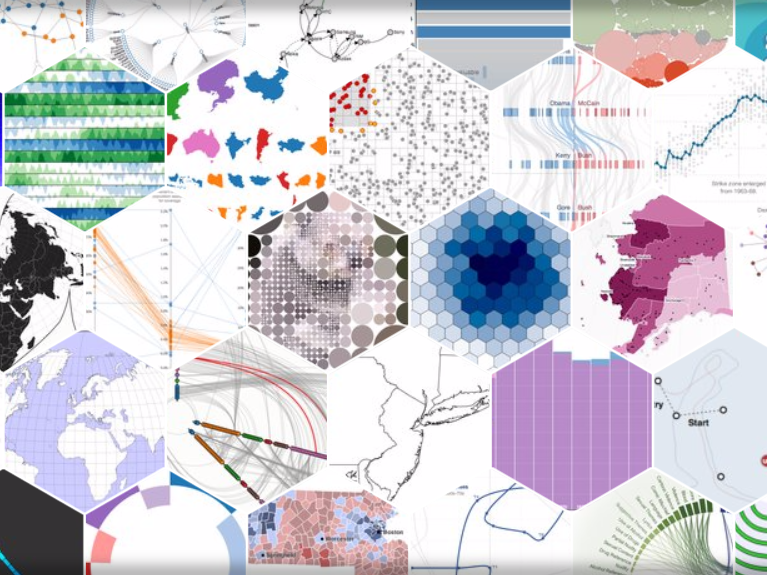
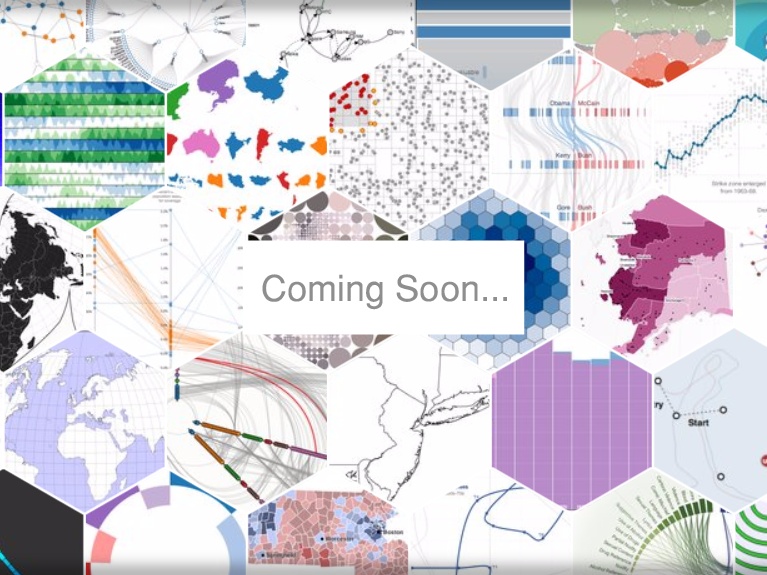
18summer content update; missing images and links

Changed region(s): [[0.2999, 0.4139, 0.6897, 0.5913]]

diff --git a/index.html b/index.html
@@ -209,7 +209,7 @@
         	<img id="chu-logo" src="imgs/icons/chu-logo.png" alt="Loading Logo...">
             <div id="hand"><img src="imgs/icons/hand.png" alt="Loading hand..."></div>
             <img id="smile3" src="imgs/icons/smile.png" alt="Loading smile...">
-            <p id="sec1-p">I'M A <span class="sec1-p-span" id="coe" data-toggle="tooltip" data-placement="bottom" title="Now seeking 2018 summer intern.">Front End Engineer&nbsp;</span>FROM<span class="sec1-p-span" id="uiux" data-toggle="tooltip" data-placement="bottom" title="@ Mountain View, CA">&nbsp;CMU</span></p>
+            <p id="sec1-p">I'M A <span class="sec1-p-span" id="coe" data-toggle="tooltip" data-placement="bottom" title="Now seeking 2019 full time opportunity.">Front End Engineer&nbsp;</span>FROM<span class="sec1-p-span" id="uiux" data-toggle="tooltip" data-placement="bottom" title="@ Mountain View, CA">&nbsp;CMU</span></p>
         </div>
         <div class="arrow_box"></div>
     </section>
@@ -231,7 +231,7 @@
             <div class="sec2mask original-mask"></div>
             <div class="row">
               <div class="leftimg">
-              	<img src="imgs/portrait3.png" alt="Loading Portrait...">
+              	<img src="imgs/portrait3.jpg" alt="Loading Portrait...">
               </div>
               <div class="aboutright">
               	<h1 class="wow fadeInDown">Who am I?</h1>
@@ -258,47 +258,47 @@
 						<div class="sec-title text-center">
 							<h2 class="wow fadeInDown">My Skills</h2>
                             <hr>
-							<p class="wow animated fadeInUp-light">Tools I have been using to code</p>
+							<p class="wow animated fadeInUp-light">Web technologies I have hands-on experience</p>
 						</div>
 						
 						<div class="col-md-3 col-sm-6 col-xs-12 text-center wow zoomIn">
 							<div class="service-item">
 								<div class="service-icon service-icon1">
-									<i class="fa"><img src="imgs/icons/web.png" class="skillimg" alt=""></i>
+									<i class="fa"><img src="imgs/icons/lang.png" class="skillimg" alt=""></i>
 								</div>
-								<h3>Web/Database</h3>
-								<p>jQuery, Node, MongoDB, SQL</p>
+								<h3>Languages</h3>
+								<p>HTML, CSS, JavaScript, Python, PHP</p>
 							</div>
 						</div>
 					
 						<div class="col-md-3 col-sm-6 col-xs-12 text-center wow zoomIn" data-wow-delay="0.3s">
 							<div class="service-item">
 								<div class="service-icon service-icon2">
-									<i class="fa"><img src="imgs/icons/mobile.png" class="skillimg" alt=""></i>
+									<i class="fa"><img src="imgs/icons/frame.png" class="skillimg" alt=""></i>
 								</div>
-								<h3>Mobile API</h3>
-								<p>Android / iOS</p>
+								<h3>Frameworks</h3>
+								<p>Polymer, Vue, React, Backbone, Angular, Node</p>
 							</div>
 						</div>
 					
 						<div class="col-md-3 col-sm-6 col-xs-12 text-center wow zoomIn" data-wow-delay="0.6s">
 							<div class="service-item">
 								<div class="service-icon service-icon3">
-									<i class="fa"><img src="imgs/icons/software.png" class="skillimg" alt=""></i>
+									<i class="fa"><img src="imgs/icons/db.png" class="skillimg" alt=""></i>
 								</div>
-								<h3>General Purpose</h3>
-								<p>Python, Java, C/C#</p>
+								<h3>Databases</h3>
+								<p>MongoDB, MySQL, PostgreSQL</p>
 							</div>
 						</div>
 					
 						<div class="col-md-3 col-sm-6 col-xs-12 text-center wow zoomIn" data-wow-delay="0.9s">
 							<div class="service-item">
 								<div class="service-icon service-icon4">
-									<i class="fa"><img src="imgs/icons/embedded.png" class="skillimg" alt=""></i>
+									<i class="fa"><img src="imgs/icons/cloud.png" class="skillimg" alt=""></i>
 								</div>
 								
-								<h3>Embedded</h3>
-								<p>MIPS, x86, VHDL</p>							
+								<h3>Cloud</h3>
+								<p>AWS, MS Azure, Heroku</p>							
 							</div>
 						</div>
 						
@@ -319,6 +319,28 @@
               <p class="wow animated fadeInUp-light">Code & Outcome Snaps</p>
               <div class="row text-center" id="portfolio1">
                 <div class="col-sm-3 pp-wrapper wow fadeInDown col-sm-offset-1">
+                	<h3><strong>Chrome Extension, Solidity</strong></h3>
+                    <p>Ethereum Wallet - A Chrome Extension which enables Ethereum trade. Implementation and security analysis are two focuses for this project.</p>
+                    <button class="btn btn1 btn2" href="" disabled>Coming Soon...</button>
+                </div>
+                <div class="col-sm-6 pimg-wrapper wow fadeInUp col-sm-offset-1">
+                	<img class="pimg-code" src="imgs/portfolio/crypto-code.png" alt="Loading Moviemotion...">
+                    <img class="pimg" src="imgs/portfolio/moviemotion0.png" alt="Loading Moviemotion...">
+                </div>
+              </div>
+              <div class="row text-center" id="portfolio2">
+                <div class="col-sm-6 pimg-wrapper wow fadeInUp col-sm-offset-1">
+                	<img class="pimg-code" src="imgs/portfolio/cmuwf-code.png" alt="Loading Casey...">
+                	<img class="pimg" src="imgs/portfolio/cmuwf.png" alt="Loading Casey...">
+                </div>
+                <div class="col-sm-3 pp-wrapper wow fadeInDown col-sm-offset-1">
+                	<h3><strong>JavaScript, Python</strong></h3>
+                    <p>Collaborative Workflow Workbench - A NASA research project which seeks web-based solution with enhanced UX and optimized performation for web service co-editing, scheduling and execution.</p>
+                    <a class="btn btn1 btn2" href="https://drive.google.com/open?id=1XJakrogt7EhitgJYefcgqgv5E9gfmb4tE2cPHujjp1Q" target="_blank">Research Paper*</a>
+                </div>
+              </div>
+              <div class="row text-center" id="portfolio3">
+                <div class="col-sm-3 pp-wrapper wow fadeInDown col-sm-offset-1">
                 	<h3><strong>JavaScript, Python, R, PyTorch</strong></h3>
                     <p>Movie.Emodex - A research project where we explore new application in movie sentiment analysis with the help of deep learning and data visualization methods through web interface.</p>
                     <button class="btn btn1 btn2" href="" disabled>Coming Soon...</button>
@@ -328,7 +350,7 @@
                     <img class="pimg" src="imgs/portfolio/moviemotion0.png" alt="Loading Moviemotion...">
                 </div>
               </div>
-              <div class="row text-center" id="portfolio2">
+              <div class="row text-center" id="portfolio4">
                 <div class="col-sm-6 pimg-wrapper wow fadeInUp col-sm-offset-1">
                 	<img class="pimg-code" src="imgs/portfolio/casey-code.png" alt="Loading Casey...">
                 	<img class="pimg" src="imgs/portfolio/casey0.png" alt="Loading Casey...">
@@ -339,7 +361,7 @@
                     <a class="btn btn1 btn2" href="https://www.xinbeihu.com/jet-hackathon" target="_blank">Research & Design</a>
                 </div>
               </div>
-              <div class="row text-center" id="portfolio3">
+              <div class="row text-center" id="portfolio5">
                 <div class="col-sm-3 pp-wrapper wow fadeInDown col-sm-offset-1">
                 	<h3><strong>Microsoft HoloLens, Unity, C#, JavaScript</strong></h3>
                     <p>Dashboard - A research project aiming to build an educational app on HoloLens that enhances in-class communication to help instructors conduct efficient teaching.</p>
@@ -350,7 +372,7 @@
                     <img class="pimg" src="imgs/portfolio/hololens1.gif" alt="Loading HoloLens...">
                 </div>
               </div>
-              <div class="row text-center" id="portfolio4">
+              <div class="row text-center" id="portfolio6">
                 <div class="col-sm-6 pimg-wrapper wow fadeInUp col-sm-offset-1">
                 	<img class="pimg-code" src="imgs/portfolio/airome-code.png" alt="Loading Airome...">
                 	<img class="pimg" src="imgs/portfolio/airome0.png" alt="Loading Airome...">
@@ -361,7 +383,7 @@
                     <a class="btn btn1 btn2" href="Airome" target="_blank">Design Presentation</a>
                 </div>
               </div>
-              <div class="row text-center" id="portfolio5">
+              <!-- <div class="row text-center" id="portfolio5">
                 <div class="col-sm-3 pp-wrapper wow fadeInDown col-sm-offset-1">
                 	<h3><strong>Java, PHP, SQL, Android API</strong></h3>
                     <p>Panther Read - a mobile learning app being built to enter the XPrice competition to improve adult literacy. Our group of software engineers are working closely with psychologists and linguists at PITT to create an efficient and incentivized learning process.</p>
@@ -382,21 +404,16 @@
                     <p>The CTC Railway control system - a combination of embedded system and supporting software programming task. The final prototype was designed and built stricktly according to documents provided by the Pittsburgh Port Authority (PAAC).</p>
                     <a class="btn btn1 btn2" href="https://github.com/tic30/CTC-Railway-System-By-RedPanda-Coding/tree/master/src/cn/ctc" target="_blank">See Code in GitHub</a>
                 </div>
-              </div>
+              </div> -->
               <div class="row text-center" id="portfolio7">
-                <div class="col-sm-3 col-md-3 pp-wrapper wow fadeInDown col-sm-offset-1">
-                    <h3><strong>HTML, PHP, MySQL, JDBC</strong></h3>
-                    <p>FaceSpace - the smiling social network. It features emotion sharing and media streaming. This project is built based on MySQL database with dedicated SQL and Java programming. We use PHP to generate the front end website and mobile applications.</p>
-                    <a class="btn btn1 btn2" href="https://github.com/tic30/FaceSpace" target="_blank">See Code in GitHub</a>
-                	<!--<h3><strong>Java, Android API, Adobe Design Tools</strong></h3>
-                    <p>CrossUniv Bus tracking app. It features bus trip planning with feeds from PITT/CMU school bus systems and the Pittsburgh city bus system, all in one app. This app is designed for local students to enjoy free bus rides with the highest possible time efficiency.</p>
-                    <a class="btn btn1 btn2" href="https://www.behance.net/gallery/38281809/CrossUniv-Bus" target="_blank">Go to my Bēhance</a>-->
+                <div class="col-sm-3 pp-wrapper wow fadeInDown col-sm-offset-1">
+                	<h3><strong>Java, PHP, SQL, Android API</strong></h3>
+                    <p>Panther Read - a mobile learning app being built to enter the XPrice competition to improve adult literacy. Our group of software engineers are working closely with psychologists and linguists at PITT to create an efficient and incentivized learning process.</p>
+                    <a class="btn btn1 btn2" href="https://drive.google.com/open?id=0B1dSWHM51dn-T2k0MmxOQ2FJeEE" target="_blank">Research & Design</a>
                 </div>
                 <div class="col-sm-6 pimg-wrapper wow fadeInUp col-sm-offset-1">
-                    <img class="pimg-code" src="imgs/portfolio/face-code.png" alt="Loading FaceSpace...">
-                    <img class="pimg" src="imgs/portfolio/face0.png" alt="Loading FaceSpace...">
-                	<!--<img class="pimg-code" src="imgs/portfolio/cross1.gif" alt="Loading CrossUniv...">
-                    <img class="pimg" src="imgs/portfolio/cross0.gif" alt="Loading CrossUniv...">-->
+                	<img class="pimg-code" src="imgs/portfolio/xprice-code.png" alt="Loading Panther Read...">
+                    <img class="pimg" src="imgs/portfolio/xprice1.png" alt="Loading Panther Read...">
                 </div>
               </div>
               <div class="row text-center" id="portfolio8">
@@ -474,7 +491,7 @@
             <div class="row bottomRow">                
                 <div class="self-intro col-md-8 wow fadeInLeft-light" data-wow-delay="0.3s">
                     <p><span>I</span> am pursuing a career within the scope of full stack web programming and interactive computing/UX research. My strength is front end development and prototyping. Meanwhile I am always learning and would love to explore new technology fields.</p>
-                    <p><span>A</span>t the moment, I am pursuing a master's degree at CMU Silicon Valley campus, majoring in Software Engineering. Thus I am open to <i class="location-highlight">2018 summer internship</i> positions and <i class="location-highlight">full time positions starting 2019</i>. In either case, if you are a recruiter, I would love to talk to you more about the opportunity. Contact me with any approach listed here if you wish to chat.</p>
+                    <p><span>A</span>t the moment, I am pursuing a master's degree at CMU Silicon Valley campus, majoring in Software Engineering. Thus I am open to <i class="location-highlight">full time positions starting January 2019</i>. If you are a recruiter, I would love to talk to you more about the opportunity. Contact me with any approach listed here if you wish to chat.</p>
                 </div>
                 <div class="contact-details-wrapper col-md-4 wow fadeInRight-light" data-wow-delay="0.3s">
 					<address class="contact-details">			
@@ -514,7 +531,7 @@
     -->
     
     <footer>
-    	<div>v1.93.17 &nbsp;© Copyright 2016 - 2018 &nbsp;Chu, Tianxin</div>
+    	<div>For * links, contact me for permission.&nbsp;&nbsp;&nbsp;v1.93.17 &nbsp;© Copyright 2016 - 2018 &nbsp;Chu, Tianxin</div>
     </footer>
     <script src="js/jquery.js"></script>
     <script src="js/bootstrap.min.js"></script>

diff --git a/css/chu-custom.css b/css/chu-custom.css
@@ -94,7 +94,8 @@ hr{
 	border-radius:2px;
     background-color: #f5f5f5;
 	width:300px;
-	height:50px
+	height:50px;
+	max-width: 100%;
 }
 
 .btn1.focus,
@@ -811,27 +812,22 @@ footer{
 	}
 }
 .preloader-button-wrapper{
-	position:relative;
+	position:fixed;
 	width:100%;
-	top:53%;
-	left: 50%;
-    -webkit-transform: translate(-50%,0);
-    transform: translate(-50%,0);
-	height:50px;
+	bottom:20px;
+	right:20px;
+	text-align: right;
+	height: 50px;
     color: #1a1a1a;
 }
 .preloader-button{
-    position: absolute;
-	border:solid 1px #666;
+	border:solid 1px #1a1a1a;
     background-color: #1a1a1a;
-    width: 36%;
-	font-size:20px;
+	font-size:18px;
 	padding-top: 5px;
 	border-radius:2px;
 	height:50px;
-    color: #666;
-    left: 32%;
-	display:none
+    color: #ddd;
 }
 .preloader-button:hover{
 	border:solid 1px #f5f5f5;
@@ -1093,10 +1089,11 @@ footer{
 .leftimg img{
 	height:100%;
 	position: absolute;
-	right: 0
+	right: 0;
+	opacity:0.5
 }
 .aboutright {
-	margin-left: 3%;
+	margin-left: 10%;
 	max-width: 60%;
 	padding-bottom:60px;
 	/* bottom:0;
@@ -1315,6 +1312,9 @@ footer{
 #sec4 .row{
 	margin-top:150px;
 }
+#sec4 #portfolio1{
+	margin-top:100px;
+}
 .pimg{
 	position:relative;
 	width:100%;
@@ -1371,7 +1371,8 @@ footer{
 	#sec4{
 		min-height:0;
 	}
-	#sec4 .row{
+	#sec4 .row,
+	#sec4 #portfolio1{
 		margin-top:0;
 	}
 	#sec4-content{
@@ -1380,7 +1381,8 @@ footer{
 	.pp-wrapper{
 		padding-top:40px;
 	}
-    #portfolio3 .pp-wrapper{
+	#portfolio2 .pp-wrapper,
+    #portfolio5 .pp-wrapper{
 		padding-top:70px;
 	}
 	.pp-wrapper p{

diff --git a/js/chu-custom-js.js b/js/chu-custom-js.js
@@ -78,7 +78,7 @@ $(document).ready(function () {
     setTimeout(function () {
         $('.preloader-button').css("display", "block");
         $('.preloader-button').addClass("animated fadeInDown");
-    }, 7000);
+    }, 7000);*/
     $('.preloader-button').click(function (e) {
         e.preventDefault();
         $('.preloader-wrapper').addClass("animated fadeOut");
@@ -99,7 +99,7 @@ $(document).ready(function () {
         setTimeout(function () {
             $('#sec1').css("height", h - arrowOffset);
         }, 3000);
-    });*/
+    });
 
     //sec2 sliding portfolio	
     var imgNo = 0;
